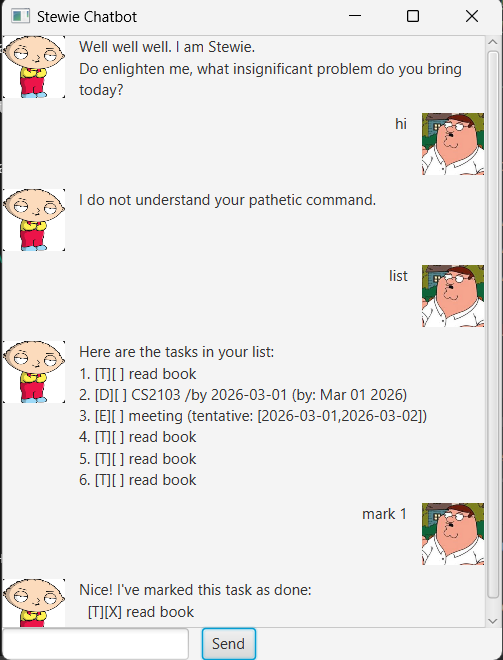
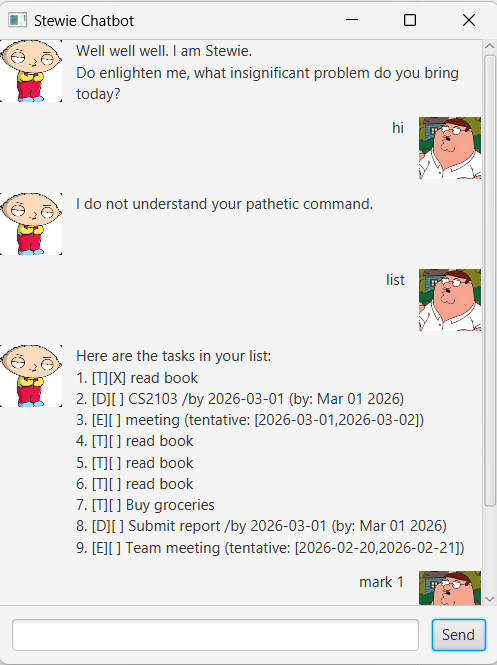
Make send bar responsive to window width

diff --git a/src/main/java/Stewie/ui/Main.java b/src/main/java/Stewie/ui/Main.java
@@ -2,16 +2,15 @@ package Stewie.ui;
 
 import Stewie.Stewie;
 import javafx.application.Application;
+import javafx.geometry.Insets;
+import javafx.geometry.Pos;
 import javafx.scene.Scene;
 import javafx.scene.control.Button;
 import javafx.scene.control.Label;
 import javafx.scene.control.ScrollPane;
 import javafx.scene.control.TextField;
 import javafx.scene.image.Image;
-import javafx.scene.layout.BorderPane;
-import javafx.scene.layout.HBox;
-import javafx.scene.layout.StackPane;
-import javafx.scene.layout.VBox;
+import javafx.scene.layout.*;
 import javafx.stage.Stage;
 
 
@@ -45,6 +44,12 @@ public class Main extends Application {
         Button sendButton = new Button("Send");
 
         HBox inputBox = new HBox(10, userInput, sendButton);
+        inputBox.setPadding(new Insets(10)); // optional padding
+        inputBox.setAlignment(Pos.CENTER);
+
+
+        HBox.setHgrow(userInput, Priority.ALWAYS);
+        userInput.setMaxWidth(Double.MAX_VALUE);
 
         BorderPane root = new BorderPane();
         root.setCenter(scrollPane);
